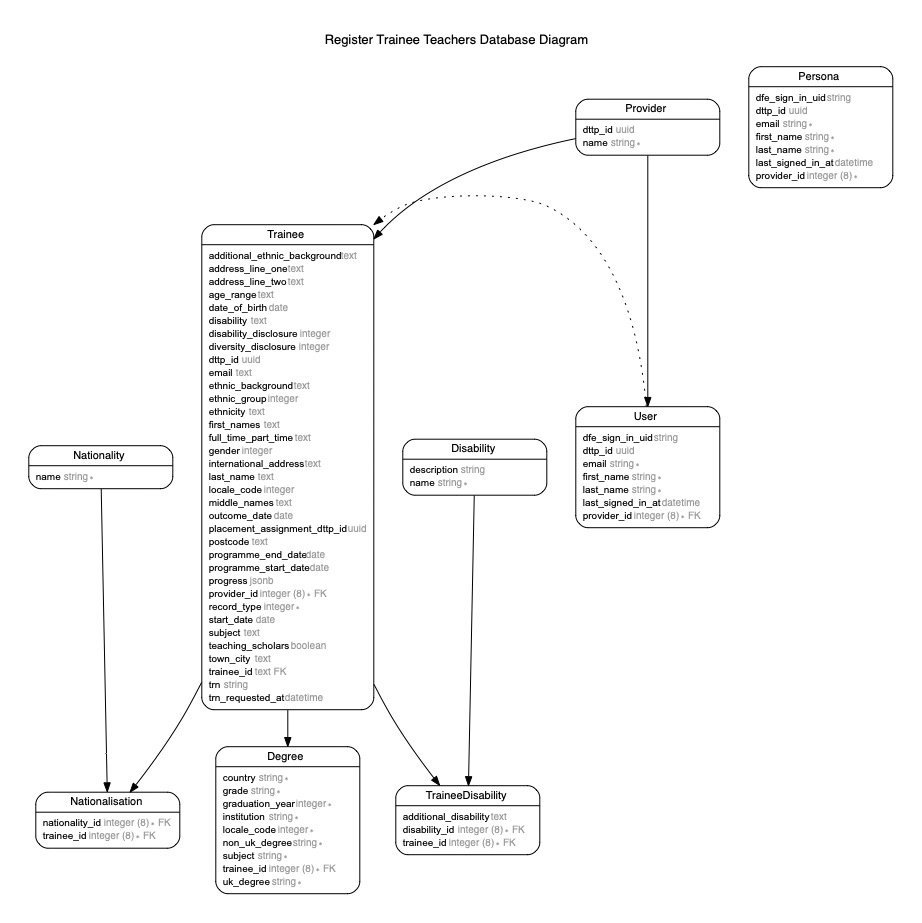
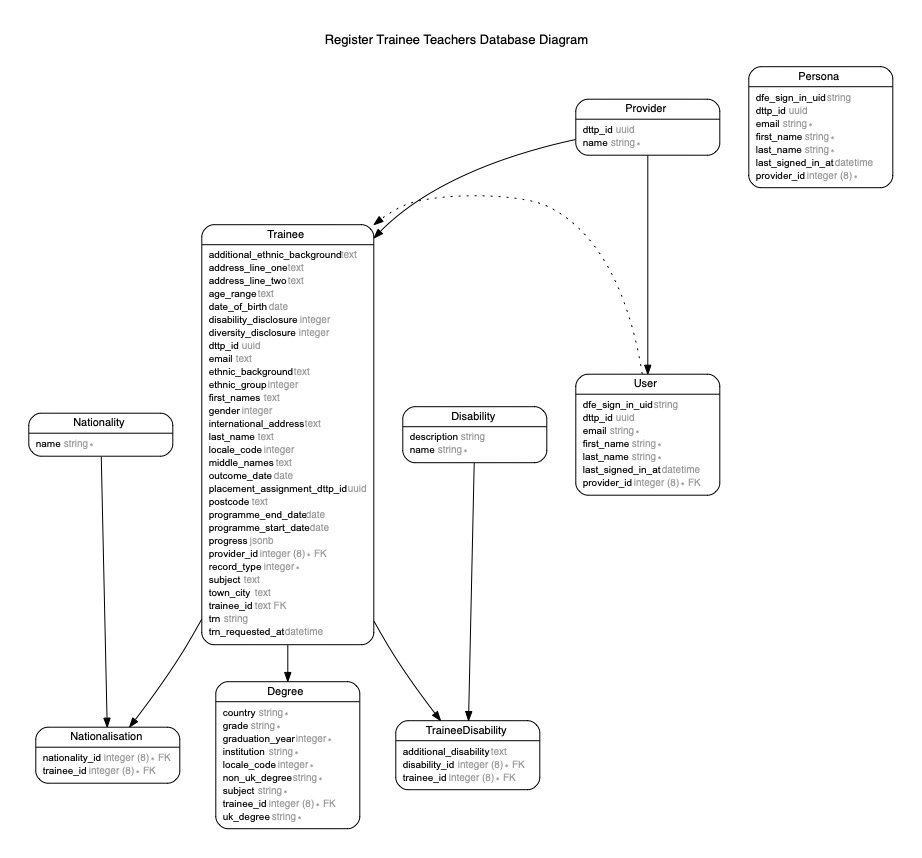
[597] & [598] Clean up redundant code and tests

diff --git a/app/controllers/trainees_controller.rb b/app/controllers/trainees_controller.rb
@@ -46,59 +46,6 @@ private
   end
 
   def trainee_params
-    params.require(:trainee).permit(trainee_all_params, nationality_ids: [])
-  end
-
-  def trainee_all_params
-    [
-      trainee_record_params,
-      trainee_personal_details_params,
-      trainee_previous_education_params,
-      trainee_training_details_params,
-    ].flatten
-  end
-
-  def trainee_record_params
-    %i[
-      record_type
-      trainee_id
-    ]
-  end
-
-  def trainee_personal_details_params
-    %i[
-      first_names
-      middle_names
-      last_name
-      date_of_birth
-      gender
-      ethnicity
-      disability
-    ]
-  end
-
-  def trainee_previous_education_params
-    %i[
-      a_level_1_subject
-      a_level_1_grade
-      a_level_2_subject
-      a_level_2_grade
-      a_level_3_subject
-      a_level_3_grade
-      degree_subject
-      degree_class
-      degree_institution
-      degree_type
-      ske
-      previous_qts
-    ]
-  end
-
-  def trainee_training_details_params
-    %i[
-      start_date
-      full_time_part_time
-      teaching_scholars
-    ]
+    params.require(:trainee).permit(:record_type, :trainee_id)
   end
 end

diff --git a/db/schema.rb b/db/schema.rb
@@ -10,7 +10,7 @@
 #
 # It's strongly recommended that you check this file into your version control system.
 
-ActiveRecord::Schema.define(version: 2020_12_11_111352) do
+ActiveRecord::Schema.define(version: 2020_12_15_143727) do
 
   # These are extensions that must be enabled in order to support this database
   enable_extension "plpgsql"
@@ -77,8 +77,6 @@ ActiveRecord::Schema.define(version: 2020_12_11_111352) do
     t.text "first_names"
     t.text "last_name"
     t.date "date_of_birth"
-    t.text "ethnicity"
-    t.text "disability"
     t.datetime "created_at", precision: 6, null: false
     t.datetime "updated_at", precision: 6, null: false
     t.text "address_line_one"
@@ -86,9 +84,6 @@ ActiveRecord::Schema.define(version: 2020_12_11_111352) do
     t.text "town_city"
     t.text "postcode"
     t.text "email"
-    t.date "start_date"
-    t.text "full_time_part_time"
-    t.boolean "teaching_scholars"
     t.uuid "dttp_id"
     t.text "middle_names"
     t.integer "record_type"

diff --git a/spec/support/page_objects/trainees/summary.rb b/spec/support/page_objects/trainees/summary.rb
@@ -8,11 +8,11 @@ module PageObjects
     class Summary < PageObjects::Base
       set_url "/trainees/{id}"
 
+      section :training_details, PageObjects::Sections::TrainingDetails, ".training-details"
       section :programme_details, PageObjects::Sections::ProgrammeDetails, ".app-task-list__item.programme-details"
       section :personal_details, PageObjects::Sections::PersonalDetails, ".app-task-list__item.personal-details"
       section :contact_details, PageObjects::Sections::ContactDetails, ".contact-details"
       section :diversity_section, PageObjects::Sections::Diversity, ".app-task-list__item.diversity-details"
-      section :training_details, PageObjects::Sections::TrainingDetails, ".training-details"
       section :degree_details, PageObjects::Sections::DegreeDetails, ".degree-details"
 
       element :review_this_record_link, "#check-details"

diff --git a/spec/factories/trainees.rb b/spec/factories/trainees.rb
@@ -15,8 +15,6 @@ FactoryBot.define do
     middle_names { Faker::Name.middle_name }
     last_name { Faker::Name.last_name }
     gender { Trainee.genders.keys.sample }
-    ethnicity { Faker::Nation.nationality }
-    disability { %w[none something].sample }
 
     diversity_disclosure { Diversities::DIVERSITY_DISCLOSURE_ENUMS.values.sample }
     ethnic_group { Diversities::ETHNIC_GROUP_ENUMS.values.sample }
@@ -31,10 +29,6 @@ FactoryBot.define do
     international_address { nil }
     locale_code { :uk }
     email { "#{first_names}.#{last_name}@example.com" }
-
-    start_date { Time.zone.now }
-    full_time_part_time { %w[full_time part_time].sample }
-    teaching_scholars { [false, true].sample }
 
     factory :trainee do
       date_of_birth { Faker::Date.birthday(min_age: 18, max_age: 65) }

diff --git a/spec/support/page_objects/sections/training_details.rb b/spec/support/page_objects/sections/training_details.rb
@@ -5,9 +5,7 @@ require_relative "base"
 module PageObjects
   module Sections
     class TrainingDetails < PageObjects::Sections::Base
-      element :start_date, ".start-date .govuk-summary-list__value"
-      element :full_time_part_time, ".full-time-part-time .govuk-summary-list__value"
-      element :teaching_scholars, ".teaching-scholars .govuk-summary-list__value"
+      element :status, ".govuk-tag"
     end
   end
 end

diff --git a/db/migrate/20201215143727_remove_redundant_fields_from_trainees.rb b/db/migrate/20201215143727_remove_redundant_fields_from_trainees.rb
@@ -1,0 +1,11 @@
+# frozen_string_literal: true
+
+class RemoveRedundantFieldsFromTrainees < ActiveRecord::Migration[6.0]
+  def change
+    remove_column(:trainees, :ethnicity, :text)
+    remove_column(:trainees, :disability, :text)
+    remove_column(:trainees, :full_time_part_time, :text)
+    remove_column(:trainees, :teaching_scholars, :text)
+    remove_column(:trainees, :start_date, :date)
+  end
+end

diff --git a/spec/support/page_objects/sections/contact_details.rb b/spec/support/page_objects/sections/contact_details.rb
@@ -5,9 +5,7 @@ require_relative "base"
 module PageObjects
   module Sections
     class ContactDetails < PageObjects::Sections::Base
-      element :address, ".address .govuk-summary-list__value"
-      element :postcode, ".postcode .govuk-summary-list__value"
-      element :email, ".email .govuk-summary-list__value"
+      element :status, ".govuk-tag"
     end
   end
 end

diff --git a/spec/support/page_objects/sections/personal_details.rb b/spec/support/page_objects/sections/personal_details.rb
@@ -5,7 +5,6 @@ require_relative "base"
 module PageObjects
   module Sections
     class PersonalDetails < PageObjects::Sections::Base
-      element :trainee_id, ".trainee-id > .govuk-summary-list__value"
       element :status, ".govuk-tag"
     end
   end
